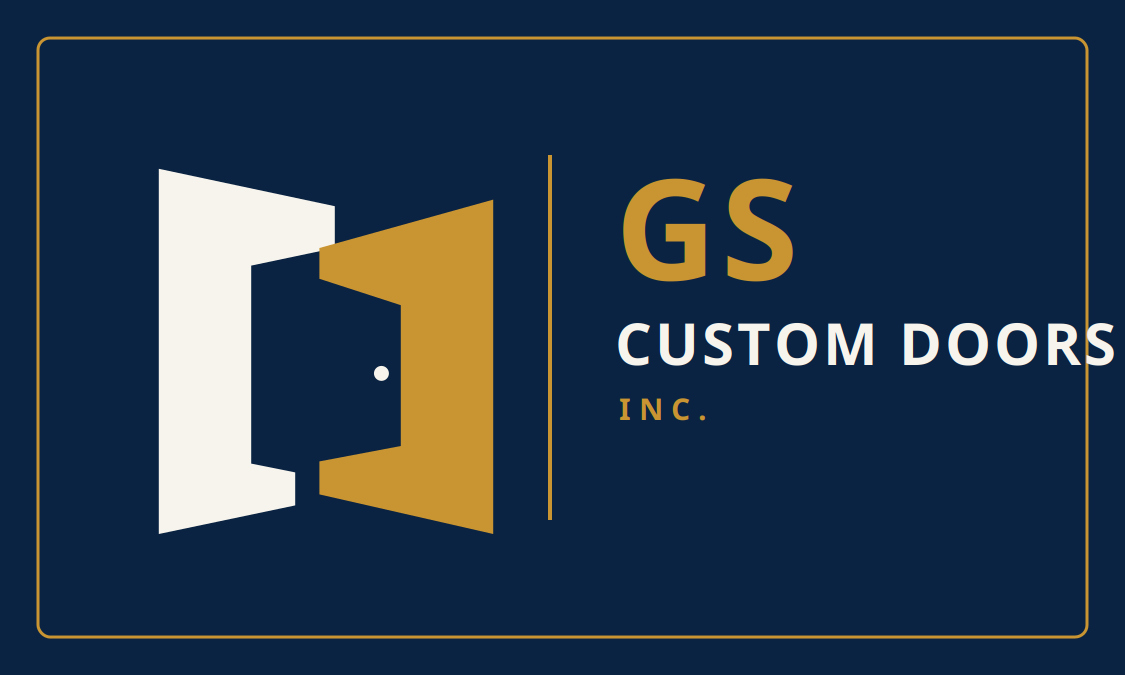
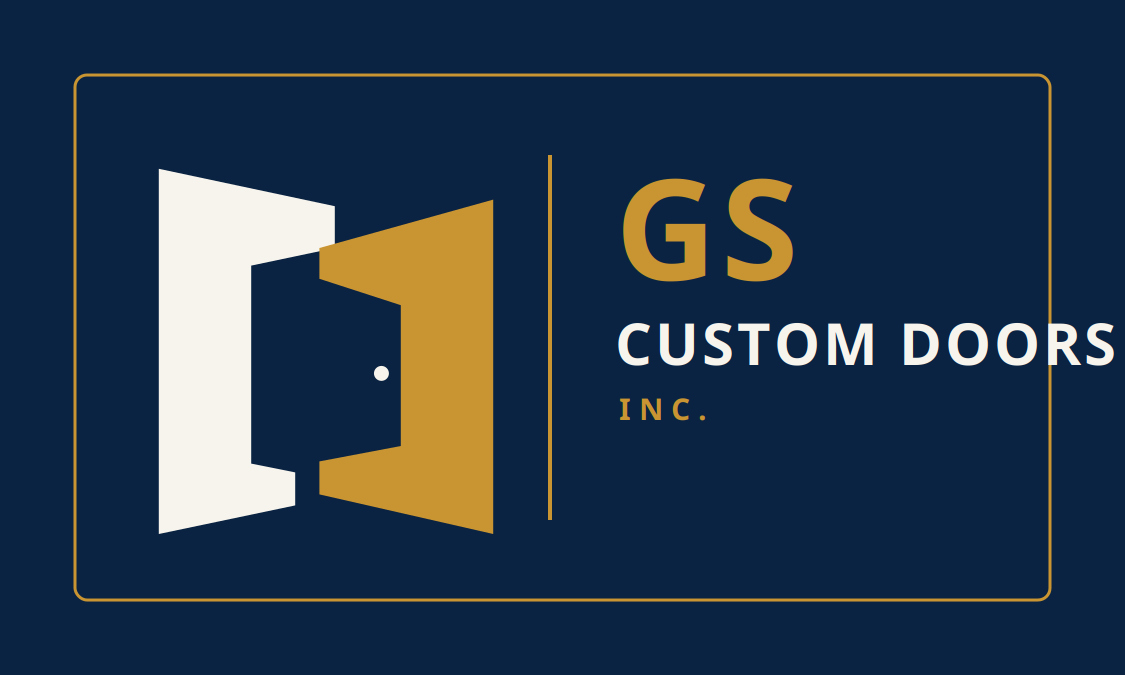
Move card borders inside safe trim area

Changed region(s): [[0.0311, 0.0311, 0.9644, 0.9644], [0.9644, 0.0622, 0.9956, 0.5289], [0.9644, 0.56, 0.9956, 0.9333]]

diff --git a/brand/generate_print_files.py b/brand/generate_print_files.py
@@ -72,7 +72,7 @@ card_front = svg_document(
     57.15,
     f"""
     <rect width="1125" height="675" fill="{NAVY}"/>
-    <rect x="38" y="38" width="1049" height="599" rx="12" fill="none" stroke="{GOLD}" stroke-width="3"/>
+    <rect x="75" y="75" width="975" height="525" rx="12" fill="none" stroke="{GOLD}" stroke-width="3"/>
     {door_mark(106, 116, 440, CREAM, GOLD)}
     <line x1="550" y1="155" x2="550" y2="520" stroke="{GOLD}" stroke-width="4"/>
     {text(615, 280, "GS", 140, GOLD, 700, 5)}
@@ -88,7 +88,7 @@ card_back = svg_document(
     57.15,
     f"""
     <rect width="1125" height="675" fill="{CREAM}"/>
-    <rect x="38" y="38" width="1049" height="599" rx="12" fill="none" stroke="{NAVY}" stroke-width="3"/>
+    <rect x="75" y="75" width="975" height="525" rx="12" fill="none" stroke="{NAVY}" stroke-width="3"/>
     {door_mark(78, 177, 275, NAVY, GOLD)}
     {text(390, 180, "GS CUSTOM DOORS INC.", 54, NAVY, 700, 1)}
     <line x1="390" y1="220" x2="1015" y2="220" stroke="{GOLD}" stroke-width="5"/>